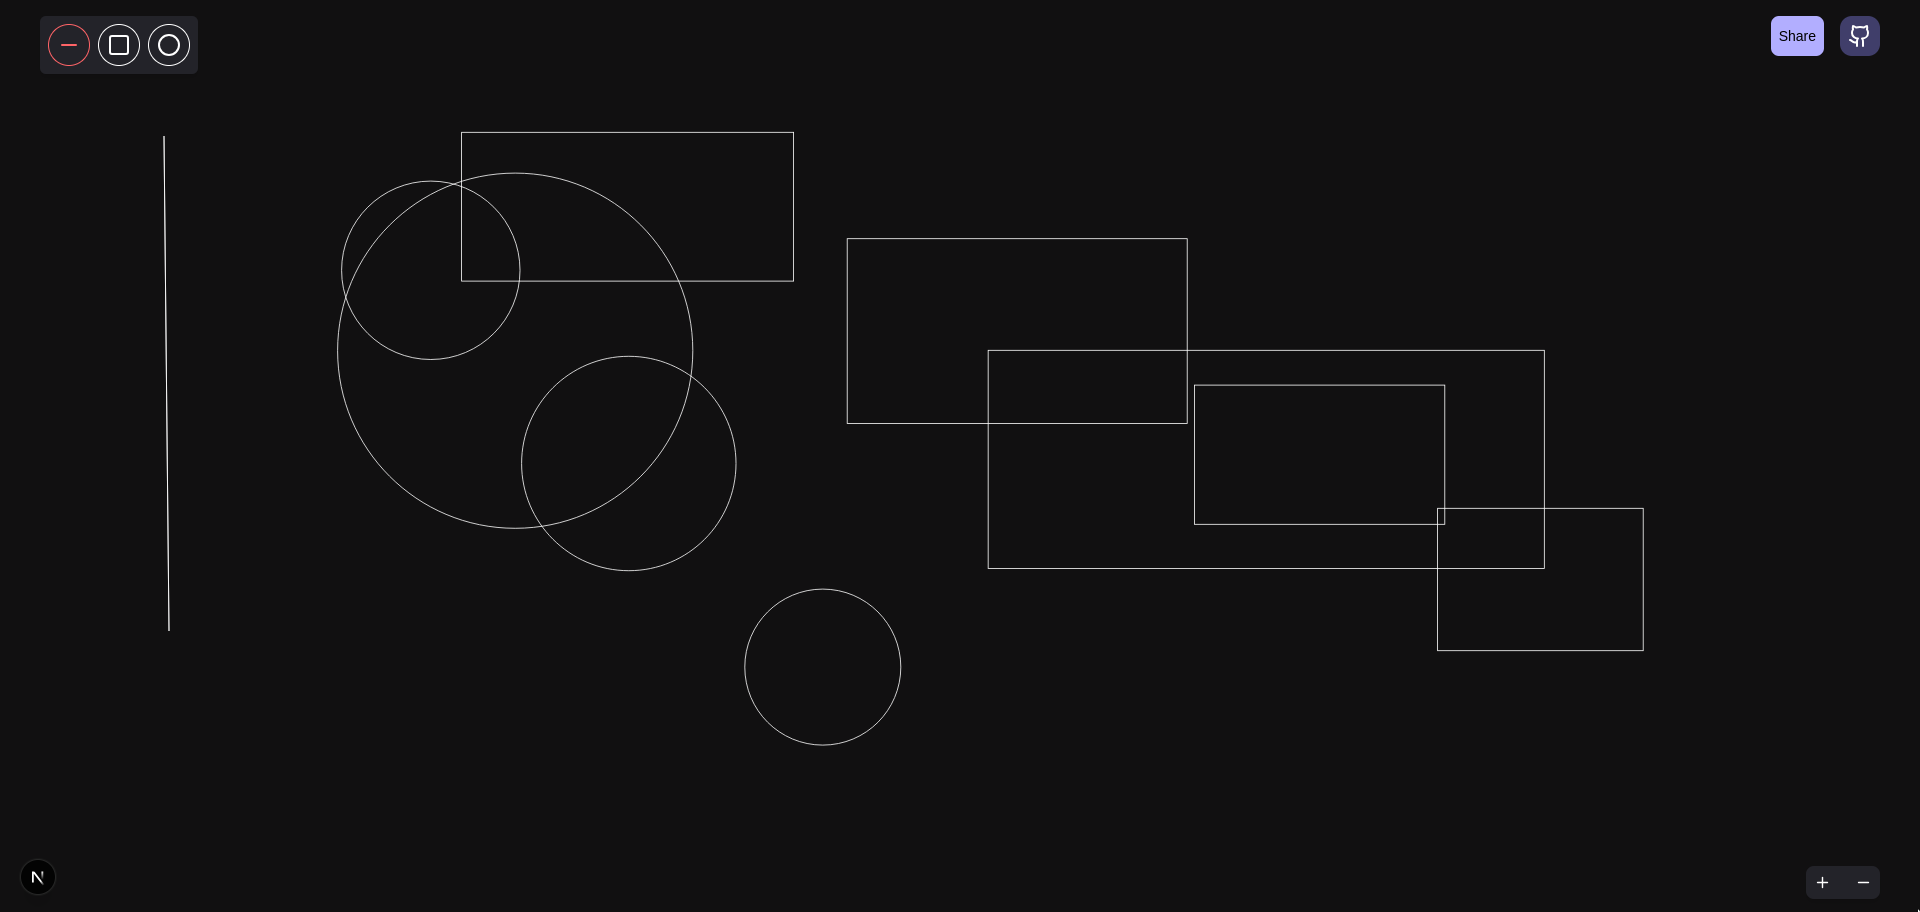
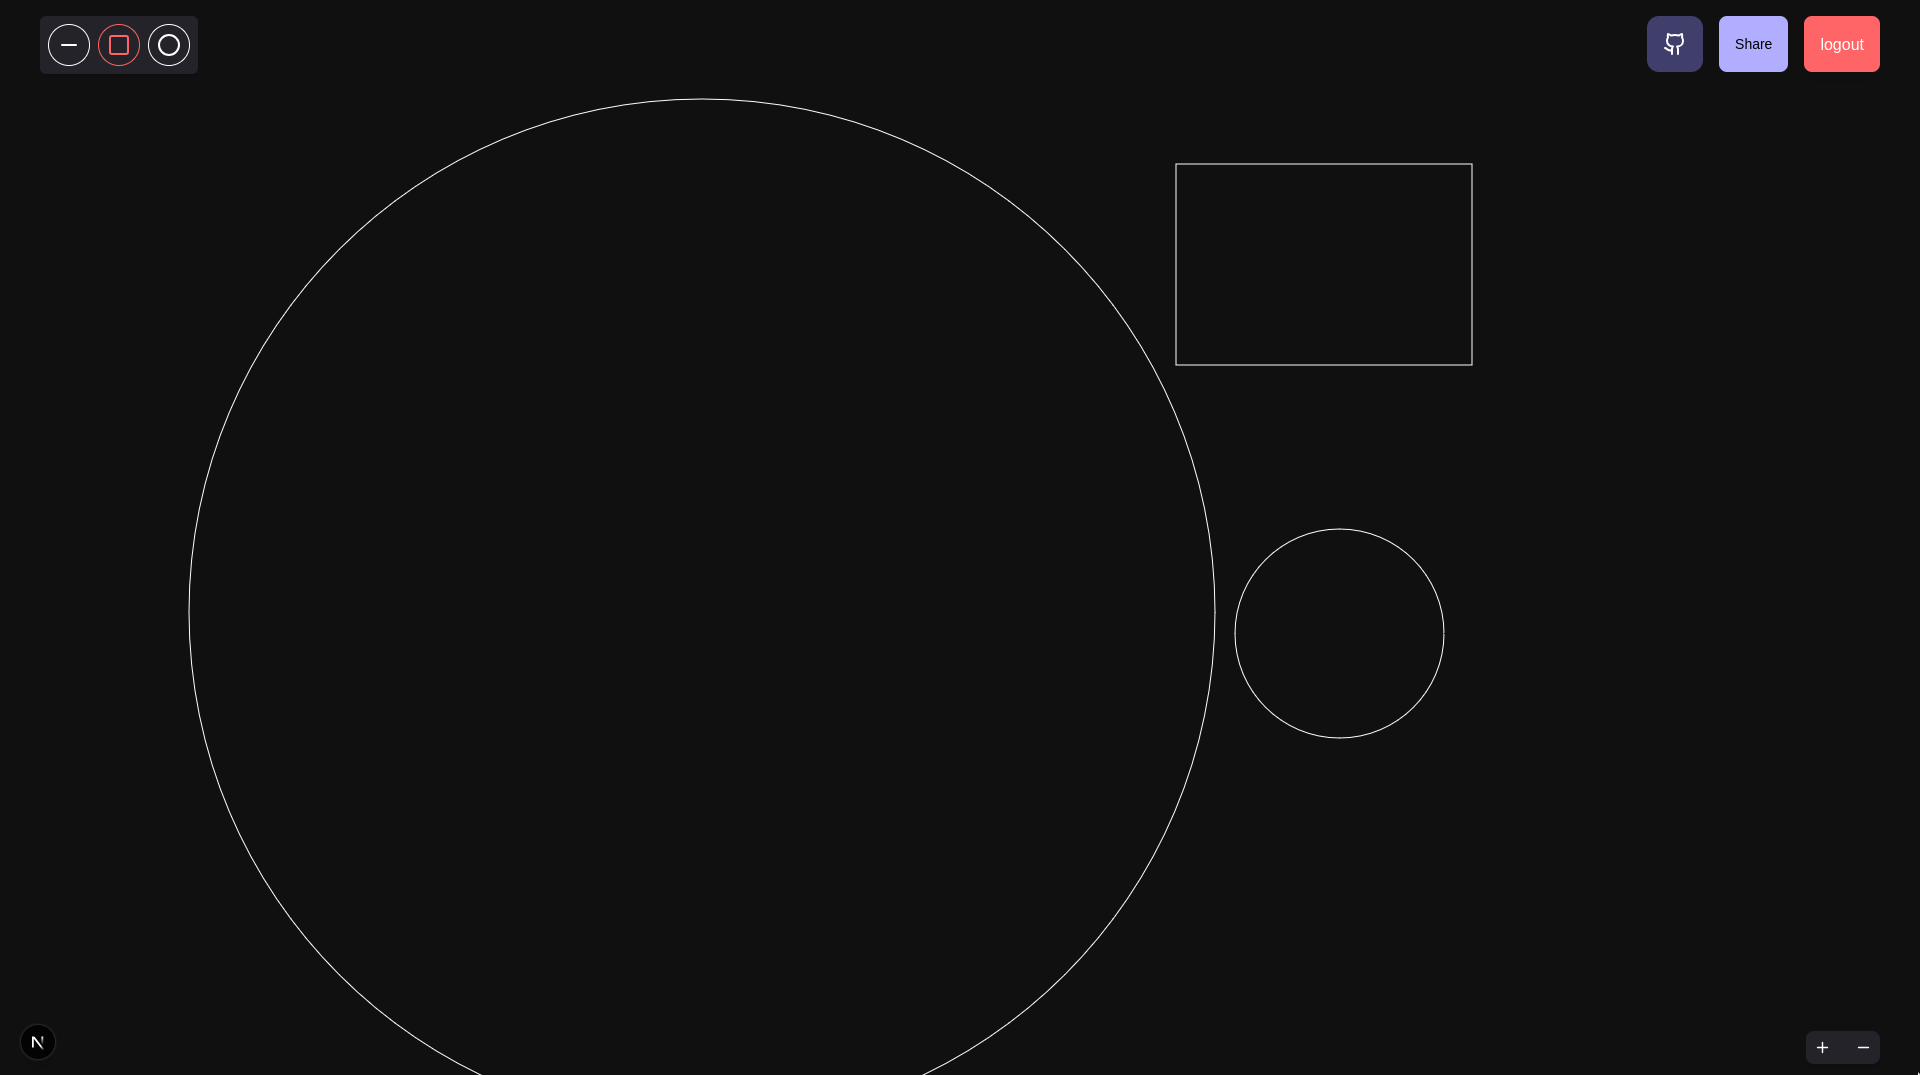
logout and other feature

diff --git a/apps/web/component/JoinCanvas.tsx b/apps/web/component/JoinCanvas.tsx
@@ -1,0 +1,124 @@
+"use client";
+import React, { useEffect, useState } from 'react'
+import { useRouter } from 'next/navigation'
+import toast from 'react-hot-toast';
+import { getAllRoomInfo } from '@/draw/helper';
+import ExistingCanvasCard, { Canvas } from './ExistingCanvasCard';
+
+function JoinCanvas() {
+  const router = useRouter();
+  const [canvasName, setCanvasName] = useState<string>('');
+  const [loading, setLoading] = useState<boolean>(false);
+  const [canvases, setCanvases] = useState<Canvas[]>([]);
+  const [fetchingCanvases, setFetchingCanvases] = useState<boolean>(true);
+
+  useEffect(() => {
+    const getAllRooms = async () => {
+      try {
+        const response = await getAllRoomInfo();
+        console.log("All room info: ", response);
+        setCanvases(response || []);
+      } catch (error) {
+        console.error("Error fetching all rooms: ", error);
+        toast.error('Failed to fetch room information');
+      } finally {
+        setFetchingCanvases(false);
+      }
+    };
+
+    getAllRooms();
+  }, []);
+
+  const createCanvasHandler = async () => {
+    if (loading) return; // Prevent multiple submissions
+    setLoading(true);
+
+    const trimmedName = canvasName.replace(/\s+/g, '');
+    if (!trimmedName) {
+      toast.error('Canvas name cannot be empty');
+      setLoading(false);
+      return;
+    }
+
+    const body = {
+      slug: trimmedName
+    }
+
+    try {
+      const response = await fetch(`/api/canvas`, {
+        method: 'POST',
+        headers: {
+          'Content-Type': 'application/json',
+        },
+        body: JSON.stringify(body),
+      });
+
+      if (response.status === 200) {
+        toast.success('Canvas created successfully');
+        const data = await response.json();
+        router.push(`/canvas/${data.slug}`);
+        setCanvasName('');
+      } else {
+        const errorData = await response.json();
+        toast.error(errorData.message || 'Failed to create canvas');
+      }
+    } catch (error) {
+      console.error('Error creating canvas:', error);
+      toast.error('Failed to create canvas');
+    } finally {
+      setLoading(false);
+    }
+  }
+
+  const joinCanvasHandler = (slug: string) => {
+    router.push(`/canvas/${slug}`);
+  }
+
+  return (
+    <div className='bg-black min-h-screen flex flex-col justify-center items-center p-8'>
+      {/* Create Canvas Section */}
+      <div className='mb-12 text-center'>
+        <h2 className='text-white text-2xl font-bold mb-6'>Create New Canvas</h2>
+        <input
+          maxLength={13}
+          type="text"
+          placeholder='ex: sample-canvas'
+          className='bg-gray-600 border-2 border-gray-300 rounded-md p-4 text-white font-medium text-md mb-4'
+          onChange={(e) => setCanvasName(e.target.value)}
+          value={canvasName}
+        />
+        <br />
+        <button 
+          className='text-black bg-[#B2AEFF] mt-4 px-6 py-3 rounded-xl cursor-pointer font-medium hover:bg-[#9B8EFF] transition-colors' 
+          onClick={createCanvasHandler}
+          disabled={loading}
+        >
+          {loading ? "Creating..." : "Create Canvas"}
+        </button>
+      </div>
+
+      {/* Existing Canvases Section */}
+      <div className='w-full max-w-4xl'>
+        <h2 className='text-white text-2xl font-bold mb-6 text-center'>Join Existing Canvas</h2>
+        
+        {fetchingCanvases ? (
+          <div className='text-white text-center'>Loading canvases...</div>
+        ) : canvases.length === 0 ? (
+          <div className='text-gray-400 text-center'>No canvases available</div>
+        ) : (
+          <div className='grid grid-cols-1 md:grid-cols-2 lg:grid-cols-3 gap-4'>
+            {canvases.map((canvas) => (
+              <ExistingCanvasCard
+                key={canvas.id}
+                canvas={canvas}
+                joinCanvasHandler={joinCanvasHandler}
+              />
+            ))}
+          </div>
+        )}
+      </div>
+    </div>
+  )
+}
+
+export default JoinCanvas

diff --git a/apps/web/app/canvas/page.tsx b/apps/web/app/canvas/page.tsx
@@ -1,62 +1,18 @@
-"use client";
+import React from 'react';
+import JoinCanvas from '@/component/JoinCanvas';
+import { getServerSession } from 'next-auth';
+import { authOptions } from '@/lib/auth';
 
-import React, { useState } from 'react'
-import { useRouter } from 'next/navigation'
-import toast from 'react-hot-toast';
+async function Page() {
+    const session = await getServerSession(authOptions);
 
-function Page() {
-    const router = useRouter();
-    const [canvasName, setCanvasName] = useState<string>('');
-    const [loading, setLoading] = useState<boolean>(false);
-
-    const createCanvasHandler = async () => {
-        if (loading) return; // Prevent multiple submissions
-        setLoading(true);
-        const trimmedName = canvasName.replace(/\s+/g, '');
-
-        if (!trimmedName) {
-            toast.error('Canvas name cannot be empty');
-            setLoading(false);
-            return;
-        }
-
-        const body = {
-            slug: trimmedName
-        }
-        
-        const response = await fetch(`/api/canvas`, {
-            method: 'POST',
-            headers: {
-                'Content-Type': 'application/json',
-            },
-            body: JSON.stringify(body),
-        });
-
-        if (response.status === 200) {
-            toast.success('Canvas created successfully');
-            const data = await response.json();
-            router.push(`/canvas/${data.slug}`);
-            setCanvasName(''); 
-            setLoading(false);
-        } else {
-            const errorData = await response.json();
-            toast.error(errorData.message || 'Failed to create canvas');
-            setLoading(false);
-        }
+    if (!session?.user) {
+        throw new Error("User not authenticated");
     }
-    return (
-        <div className='bg-black h-screen flex flex-col justify-center items-center'>
-            <input
-                maxLength={13}
-                type="text"
-                placeholder='ex: sample-canvas'
-                className='bg-gray-600 border-2 border-gray-300 rounded-md p-4 text-white font-medium text-md bg-none'
-                onChange={(e) => setCanvasName(e.target.value)}
-                value={canvasName}
-            />
-            <button className=' text-black bg-[#B2AEFF] mt-10 p-2 rounded-xl cursor-pointer' onClick={createCanvasHandler}>{loading ? "Creating..." : "Create canvas"}</button>
-        </div>
-    )
+
+    return <div className='bg-black h-screen flex flex-col justify-center items-center'>
+        <JoinCanvas />
+    </div>
 }
 
 export default Page

diff --git a/apps/web/component/Canvas.tsx b/apps/web/component/Canvas.tsx
@@ -8,6 +8,7 @@ import { Tool } from '@/types/tools';
 import { Game } from '@/draw/Game';
 import toast from 'react-hot-toast';
 import Link from 'next/link';
+import UserProfileDropDown from './UserProfileDropDown';
 
 
 function Canvas({ roomId, socket }: { roomId: string, socket: WebSocket }) {
@@ -58,10 +59,13 @@ function Canvas({ roomId, socket }: { roomId: string, socket: WebSocket }) {
                 <ToolsBar selectedTool={selectedTool} setSelectedTool={setSelectedTool} />
             </div>
             <div className='fixed top-4 right-10 flex gap-4'>
-                <button className='text-black p-2 rounded-lg text-sm bg-[#B2AEFF] cursor-pointer' onClick={onShareHandler}>Share</button>
-                <div className='bg-[#403E6A] p-2 rounded-xl text-white flex justify-center items-center cursor-pointer'>
+                <div className='bg-[#403E6A] p-4 rounded-xl text-white flex justify-center items-center cursor-pointer'>
                     <Link href={"https://github.com/bandhan-majumder/Canvas"} target='blank'>
-                    <Github className='transition ease-out duration-300'/></Link>
+                        <Github className='transition ease-out duration-300' /></Link>
+                </div>
+                <button className='text-black p-4 rounded-lg text-sm bg-[#B2AEFF] cursor-pointer' onClick={onShareHandler}>Share</button>
+                <div>
+                    <UserProfileDropDown />
                 </div>
             </div>
             <div className='fixed bottom-4 bg-none right-10'>

diff --git a/apps/web/component/ExistingCanvasCard.tsx b/apps/web/component/ExistingCanvasCard.tsx
@@ -1,0 +1,36 @@
+import React from 'react'
+
+export interface Canvas {
+  id: string;
+  slug: string;
+  createdAt: string;
+  userId: string;
+}
+
+function ExistingCanvasCard({canvas, joinCanvasHandler}: {
+  canvas: Canvas;
+  joinCanvasHandler: (slug: string) => void;
+}) {
+    if (!canvas || !joinCanvasHandler) {
+        return null; 
+    }
+    return (
+        <div
+            key={canvas.id}
+            className='bg-gray-800 border border-gray-600 rounded-lg p-6 hover:bg-gray-700 transition-colors'
+        >
+            <h3 className='text-white text-lg font-semibold mb-2'>{canvas.slug}</h3>
+            <p className='text-gray-400 text-sm mb-4'>
+                Created: {new Date(canvas.createdAt).toLocaleDateString()}
+            </p>
+            <button
+                onClick={() => joinCanvasHandler(canvas.slug)}
+                className='w-full bg-[#B2AEFF] hover:bg-[#9B8EFF] text-black py-2 px-4 rounded-md font-medium transition-colors cursor-pointer'
+            >
+                Join Canvas
+            </button>
+        </div>
+    )
+}
+
+export default ExistingCanvasCard

diff --git a/apps/web/component/UserProfileDropDown.tsx b/apps/web/component/UserProfileDropDown.tsx
@@ -1,0 +1,22 @@
+"use client";
+import { signOut, useSession } from 'next-auth/react';
+
+function UserProfileDropDown() {
+    const { data: session, status } = useSession();
+
+
+    if (status === "loading") return <div>Loading...</div>;
+
+    if (status === "unauthenticated") return <div>
+        Please log in to access your profile.
+    </div>;
+    
+    return (
+        <div className='top-16 right-4 bg-red-400 text-white shadow-lg rounded-lg p-4 z-50 cursor-pointer'
+        onClick={() => signOut({ callbackUrl: '/' })}>
+            logout
+        </div>
+    );
+}
+
+export default UserProfileDropDown;

diff --git a/apps/web/draw/helper.ts b/apps/web/draw/helper.ts
@@ -38,3 +38,18 @@ export async function getRoomInfo(slug: string) {
     const data = await response.json();
     return data;
 }
+
+export async function getAllRoomInfo() {
+    const response = await fetch(`/api/room`, {
+        method: "GET",
+        headers: {
+            "Content-Type": "application/json",
+            "Accept": "application/json",
+        },
+    });
+    if (!response.ok) {
+        throw new Error("Failed to fetch all room info");
+    }
+    const data = await response.json();
+    return data;
+}

diff --git a/apps/web/app/api/room/route.ts b/apps/web/app/api/room/route.ts
@@ -12,8 +12,10 @@ export async function GET(request: Request) {
     const { searchParams } = new URL(request.url);
     const roomSlug = searchParams.get("slug");
     
+    // If no slug is provided, return all room information
     if (!roomSlug) {
-        return NextResponse.json("Missing roomId", { status: 400 });
+        const allRoomInfo = await prismaClient.canvas.findMany();
+        return NextResponse.json(allRoomInfo, { status: 200 });
     }
 
     const roomInfo = await prismaClient.canvas.findFirst({
